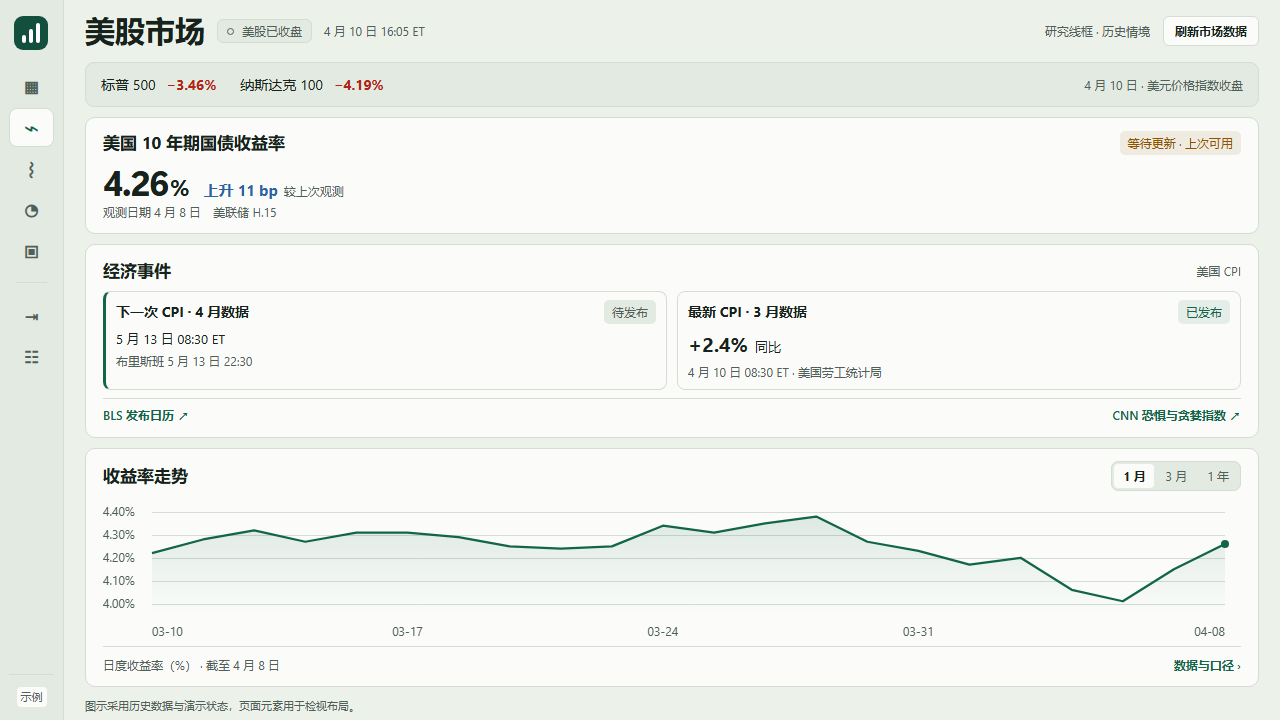
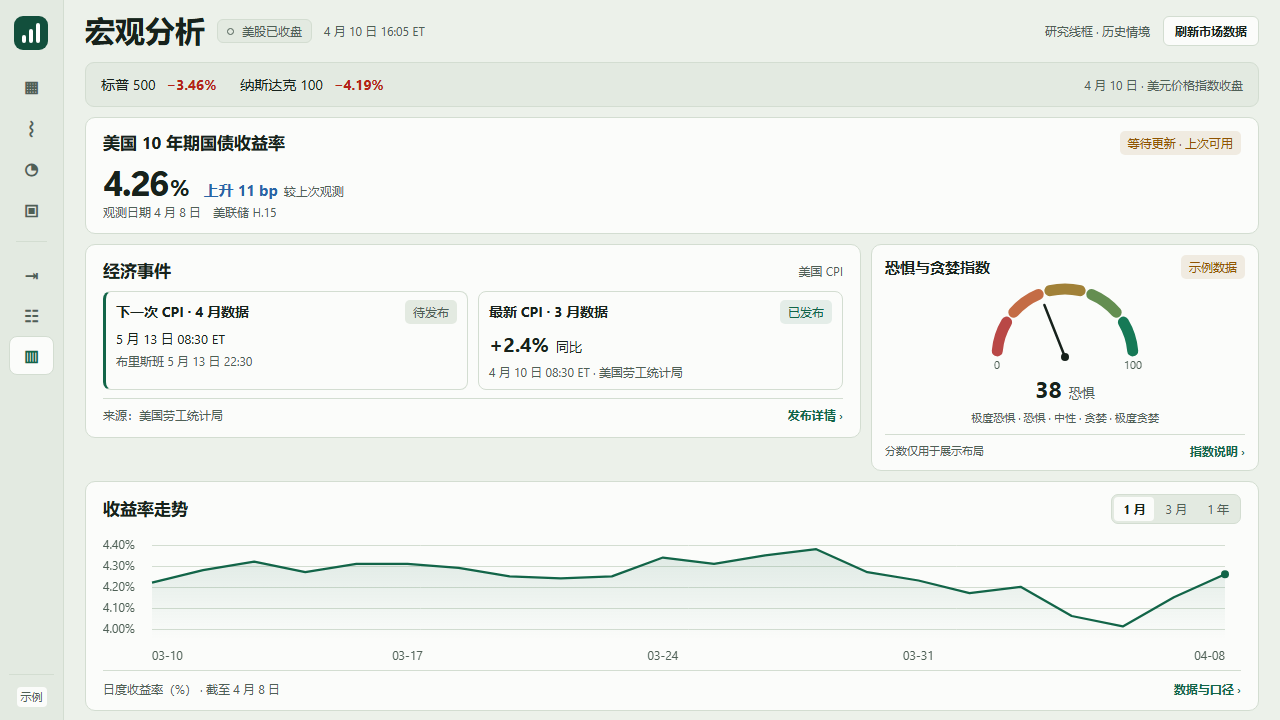
Revise Macro Analysis layout with in-app sentiment gauge

diff --git a/.research/directions/D04-us-market-indicators/research/market-page-layout-research.md b/.research/directions/D04-us-market-indicators/research/market-page-layout-research.md
@@ -1,4 +1,4 @@
-# Layout research for a dedicated U.S. Market page
+# Layout research for Macro Analysis
 
 Date: 2026-11-26
 
@@ -6,13 +6,13 @@ Direction: [D04 U.S. Market Indicators](../README.md) · Work: [Layout research 
 
 ## Recommendation
 
-Add **U.S. Market** (`美股市场` / `美股市場`) immediately after **Overview** in the existing sidebar. Open on a compact market snapshot. Give the latest available **10-year U.S. Treasury yield** the primary number, put **CPI releases** alongside it on ultrawide screens, and include the recent yield trend. A narrow window shows the yield and CPI readings before the chart. A compact row of S&P 500 and Nasdaq-100 closes can orient the reader when an appropriate market-data route has been verified.
+Add **Macro Analysis** (`宏观分析` / `宏觀分析`) as the last page in the sidebar, after **Settings**. Open on a compact market snapshot. Give the latest available **10-year U.S. Treasury yield** the primary number, put **CPI releases** alongside it on ultrawide screens, and include the recent yield trend. Place a familiar 0–100 Fear & Greed gauge in the sentiment card. A narrow window shows the yield, CPI and sentiment card before the trend. A compact row of S&P 500 and Nasdaq-100 closes can orient the reader when an appropriate market-data route has been verified.
 
-The page answers three questions in order. Is the U.S. equity session open or closed? Which observations are available and what changed? When is the next CPI release? This builds on the Researcher's accepted indicator ranking and preference for a separate page. [Candidate screening](indicator-screening.md) · [Current navigation](../../../../desktop/ui/Shell.jsx)
+The page answers three questions in order. Is the U.S. equity session open or closed? Which observations are available and what changed? When is the next CPI release? The Researcher confirmed the page name and final sidebar position, requested the gauge, and specified that details stay in the app. This builds on the accepted indicator ranking. [Candidate screening](indicator-screening.md) · [Current navigation](../../../../desktop/ui/Shell.jsx)
 
 ## Why a separate page fits Stock Portfolio
 
-The sidebar currently lists Overview, Performance Review, Allocation, and Holdings, followed by Imports and Settings. Overview starts with account valuation and helps the reader distinguish contributions from investment gains. Performance Review carries an account scope and a valuation date, and compares portfolio performance with AUD total-return benchmarks. A market page starts from the U.S. session and public series, with its own dates, units, and refresh state. Putting it next to Overview makes the two questions easy to find. The other portfolio navigation entries retain their relative order. [Existing shell](../../../../desktop/ui/Shell.jsx) · [Current app navigation and analysis controls](../../../../desktop/ui/App.jsx) · [Benchmark methodology](../../../../docs/adr/0002-portfolio-benchmark-returns.md)
+The sidebar currently lists Overview, Performance Review, Allocation, and Holdings, followed by Imports and Settings. Overview starts with account valuation and helps the reader distinguish contributions from investment gains. Performance Review carries an account scope and a valuation date, and compares portfolio performance with AUD total-return benchmarks. A market page starts from the U.S. session and public series, with its own dates, units, and refresh state. Its last-sidebar position keeps the established portfolio navigation above it. Every market action opens details in the app, with publisher names shown as attribution. [Existing shell](../../../../desktop/ui/Shell.jsx) · [Current app navigation and analysis controls](../../../../desktop/ui/App.jsx) · [Benchmark methodology](../../../../docs/adr/0002-portfolio-benchmark-returns.md)
 
 An Overview card would reduce navigation by one click, while competing with the amount and data coverage the user uses for a daily account check. A section in Performance Review would put market context beside a historical portfolio comparison, while inheriting a date and account context that cannot determine the current CPI or Treasury reading. A dedicated page can use the existing app shell, localized page title, sidebar and detail pattern, then keep its header tied to the U.S. market and its chart range local. [Overview product decisions](../../D02-portfolio-overview-priorities/research/product-decisions.md) · [Existing app layout](../../../../desktop/ui/layout.js)
 
@@ -33,21 +33,21 @@ The external precedents inform the comparison. TradingView's U.S. page opens wit
 | **Header** | Page title, U.S. equity session state such as **Market closed**, a clock with ET identified, and a market-only refresh action. Keep the session state separate from whether a source has refreshed. The header uses the market clock where the portfolio pages show account and valuation-date controls. |
 | **Equity context** | Optional compact row for S&P 500 and Nasdaq-100. A price-index close shows its own date and percent move from the previous valid close. Group the date only when both observations share it. Before an eligible market-data route exists, give the headline space to the session and rates. If the app exposes an existing total-return series in another view, keep its return basis explicit. |
 | **10-year Treasury** | Show the latest available yield in percent, the signed change in bp from the preceding valid Treasury observation, the observation date, source, and freshness. Give rates a neutral emphasis since a higher yield can have different implications for different users. If the comparison observation is missing, show the level and date while labelling the change unavailable. |
-| **CPI events** | Show the next scheduled release and the latest published result. Each item identifies the reference month and the release date. Use ET for the event and the local equivalent where helpful, especially if the date rolls over. The latest result begins with headline CPI year-over-year. The official release provides detail. |
+| **CPI events** | Show the next scheduled release and the latest published result. Each item identifies the reference month and the release date. Use ET for the event and the local equivalent where helpful, especially if the date rolls over. The latest result begins with headline CPI year-over-year. An in-app release detail shows the published value, the measurement period, the release time and the publisher. |
 | **Yield trend and details** | Default to one month, with three months and one year when data support them. Use one percent axis, mark the date of the last observation, and leave a gap where a scheduled observation is missing. Offer keyboard-accessible dated values and a data/source detail view. A shorter-history chart only exposes supported ranges. |
-| **External references** | Offer the CNN Fear & Greed publisher link in the references area. If VIX is approved for display, test one compact standalone volatility card below or beside rates. It carries its own observation clock and units. |
+| **Market sentiment** | Show a five-band semicircular 0–100 gauge with the score and sentiment as text. Open methodology and data availability in the app. The score 38 in the wireframes is illustrative. Bind current values only after a supported source, observation timestamps, and display and cache rights are verified. Until then the production design uses a neutral **Data unavailable** state with no score or needle. |
 
-**21:9.** Use the current shell's two-column pattern with a chart-led column of roughly two thirds and a narrower CPI column. Keep a reasonable width for the chart and event text. **16:9 and constrained width.** Read rates, CPI, and then trend in one column. The next and last CPI events may sit beside one another when their text fits. A smaller window can stack the events inside their card. Size the view in renderer CSS pixels so display scaling and the docked detail inspector can trigger the compact arrangement. The existing compact icon rail and fixed header provide the precedent. [Shell grid and detail component](../../../../desktop/ui/Shell.jsx) · [Shell size rules](../../../../desktop/ui/layout.js) · [Project layout targets](../../../../docs/investment-dashboard-design.md)
+**21:9.** Use the current shell's two-column pattern with a chart-led column of roughly two thirds and a narrower column for CPI above sentiment. Keep a reasonable width for the chart and event text. **16:9 and constrained width.** Read rates, CPI and sentiment, then trend. CPI and sentiment can share a row when the content area fits them. The next and last CPI events may also sit beside one another inside their card. A smaller window can stack the events inside their card. Size the view in renderer CSS pixels so display scaling and the docked detail inspector can trigger the compact arrangement. The existing compact icon rail and fixed header provide the precedent. [Shell grid and detail component](../../../../desktop/ui/Shell.jsx) · [Shell size rules](../../../../desktop/ui/layout.js) · [Project layout targets](../../../../docs/investment-dashboard-design.md)
 
 ### 21:9 wireframe, dark theme
 
-![U.S. Market wide wireframe with a dated Treasury value and chart on the left and upcoming and published CPI events on the right.](evidence/market-page-21x9.png)
+![Wide Macro Analysis wireframe with the last sidebar item selected, a Treasury yield and chart on the left, and CPI plus a sample sentiment gauge on the right.](evidence/market-page-21x9.png)
 
 ### 16:9 wireframe, light theme
 
-![U.S. Market compact wireframe with the latest available Treasury observation and CPI events before the yield trend.](evidence/market-page-16x9.png)
+![Compact Macro Analysis wireframe with the Treasury observation, CPI and sample sentiment gauge before the yield trend.](evidence/market-page-16x9.png)
 
-Both sketches use the same historical April 10, 2025 scenario. The equity moves use the historical close, and the wireframe assumes those closes were received. The Treasury panel shows an earlier observation still available in the chosen H.15 scenario. The BLS release at 08:30 ET was for March. The April report was scheduled for May 13. Numeric chart values through April 8 come from DGS10. The rendered controls illustrate placement and carry no production interaction. [Historical session and clock audit](historical-session-comparison.md) · [BLS April 10 release and next date](https://www.bls.gov/news.release/archives/cpi_04102025.htm) · [DGS10](https://fred.stlouisfed.org/series/DGS10)
+Both sketches use the same historical April 10, 2025 scenario. The equity moves use the historical close, and the wireframe assumes those closes were received. The Treasury panel shows an earlier observation still available in the chosen H.15 scenario. The BLS release at 08:30 ET was for March. The April report was scheduled for May 13. Numeric chart values through April 8 come from DGS10. The sentiment score and bands illustrate the gauge independently of the historical session. Detail controls represent in-app panels in these static sketches. [Historical session and clock audit](historical-session-comparison.md) · [BLS April 10 release and next date](https://www.bls.gov/news.release/archives/cpi_04102025.htm) · [DGS10](https://fred.stlouisfed.org/series/DGS10)
 
 ## State and accessibility
 
@@ -63,6 +63,6 @@ Match the app's green accent, light and dark surfaces, sidebar selection, typogr
 
 ## What to validate before implementation
 
-Use the same scenario and content when comparing Layout A with the list-first layout. Ask participants to locate the page from Overview, identify the date of the latest rate, tell whether it rose or fell, and identify both the reference month and the time of the next CPI release. Add a case in which the market is closed for a holiday and a refresh fails with a cached rate. Check correct first answers, time to answer, first click and serious source-date errors. Repeat in 16:9 and 21:9, with keyboard-only use and the existing zoom ranges. The two static layouts were inspected at 1280×720 in light mode and 1680×720 in dark mode. Actual Electron interaction and user comprehension remain for validation.
+Use the same scenario and content when comparing Layout A with the list-first layout. Ask participants to locate the last sidebar page from Overview, identify the date and change of the latest rate, identify the next CPI reference month and release time, and open both the CPI details and sentiment explanation without leaving the app. Add a case in which the market is closed for a holiday and a refresh fails with a cached rate. Check correct first answers, time to answer, first click and serious source-date errors. Repeat in 16:9 and 21:9, with keyboard-only use and the existing zoom ranges. The two static layouts were inspected at 1280×720 in light mode and 1680×720 in dark mode. Actual Electron interaction and user comprehension remain for validation.
 
-The daily-rate source still needs qualification over several release windows. A candidate equity strip depends on verified data access and display rights. The recommendation can be reviewed with only the yield and CPI content.
+The daily-rate source still needs qualification over several release windows. A candidate equity strip depends on verified data access and display rights. The wireframes show the full in-app layout. Continuous availability and authorization for the CNN score remain open. [Indicator source and permissions audit](source-and-permissions-audit.md)

diff --git a/.research/directions/D04-us-market-indicators/research/indicator-screening.md b/.research/directions/D04-us-market-indicators/research/indicator-screening.md
@@ -10,7 +10,7 @@ Work: [Candidate comparison #58](https://github.com/JasonCodeMaker/Stack-Portfol
 
 The smallest first-release set is **one daily rates card and one release-day event**. Prioritize the U.S. 10-year Treasury constant-maturity yield for the card. Use the Bureau of Labor Statistics CPI release as the event. The 10-year yield gave the clearest distinct daily context among the candidates with aligned data. CPI supplies dated macro news from an official source, with an update schedule suitable for an event.
 
-VIX is the preferred third indicator if a provider offers verified permission for the app's intended display and cache. Keep CNN Fear & Greed as a link to the publisher until a supported feed, usable timestamps and product rights are established. Hold the ICE high-yield spread for a later credit view with an appropriate license. [Treasury methodology](https://home.treasury.gov/policy-issues/financing-the-government/interest-rate-statistics/treasury-yield-curve-methodology) · [BLS CPI schedule](https://www.bls.gov/schedule/news_release/cpi.htm) · [Cboe data licensing](https://www.cboe.com/data/global-indices-feed)
+VIX is the preferred third indicator if a provider offers verified permission for the app's intended display and cache. Prepare the in-app CNN Fear & Greed gauge for a supported feed with usable timestamps and product rights. The Macro Analysis design uses an unavailable state while those conditions are unresolved. [Updated in-app design](market-page-layout-research.md) Hold the ICE high-yield spread for a later credit view with an appropriate license. [Treasury methodology](https://home.treasury.gov/policy-issues/financing-the-government/interest-rate-statistics/treasury-yield-curve-methodology) · [BLS CPI schedule](https://www.bls.gov/schedule/news_release/cpi.htm) · [Cboe data licensing](https://www.cboe.com/data/global-indices-feed)
 
 ## Why add anything to the benchmark view?
 
@@ -39,7 +39,7 @@ This check used the published historical series available at research time. It d
 | **1** | **10-year U.S. Treasury yield** | Current published yield, change from the previous Treasury observation in bp, and U.S. observation date. It describes long-term rates on both rising and falling equity days. | **First daily card.** Treasury documents a direct XML feed, indicative inputs around 15:30 ET, and usual website availability by 18:00 ET. Confirm the polling path in the desktop environment and retain a last-available state. FRED DGS10 labels the series public domain with attribution requested. Check the chosen delivery channel's terms separately. [Treasury XML documentation](https://home.treasury.gov/treasury-daily-interest-rate-xml-feed) · [FRED DGS10](https://fred.stlouisfed.org/series/DGS10) |
 | **2** | **U.S. CPI release** | Reference month, official release date and time, headline year-over-year change, and optionally the as-published seasonally adjusted month-over-month change. | **First release-day event.** BLS has an official API and publishes its statistical material in the public domain. Use the first-release archive to reconstruct what was shown on a particular date. Mark the scheduled event as upcoming until the actual figures arrive. [BLS API](https://www.bls.gov/developers/) · [BLS copyright policy](https://www.bls.gov/opub/copyright-information.htm) · [Release archive](https://www.bls.gov/bls/news-release/cpi.htm) |
 | **3** | **Cboe VIX** | Published level and point change as a measure of 30-day S&P 500 option-implied volatility. | **Preferred licensed addition.** Cboe publishes history and offers licensed index feeds. Current product display, caching, and delayed or end-of-day entitlements need verification. Keep the observation time distinct from 16:00 ET cash close. [Cboe FAQ](https://www.cboe.com/tradable_products/vix/faqs) · [Cboe website terms](https://www.cboe.com/terms/) |
-| **4** | **CNN Fear & Greed** | A composite view of market sentiment. CNN combines seven components, including market volatility and credit-related inputs. | **Publisher link for the first release.** No documented supported data feed, point-in-time history, or in-app reproduction permission was verified. Revisit if a supported source meets all three. If it becomes available, compare the composite alone with the composite plus VIX or spread before giving each space. [CNN methodology](https://www-stage-fastly.stellar.cnn.com/markets/fear-and-greed) |
+| **4** | **CNN Fear & Greed** | A composite view of market sentiment. CNN combines seven components, including market volatility and credit-related inputs. | **In-app gauge conditional on eligible data.** A supported feed, point-in-time history and display rights remain to be verified. Revisit if a supported source meets all three. If it becomes available, compare the composite alone with the composite plus VIX or spread before giving each space. [CNN methodology](https://www-stage-fastly.stellar.cnn.com/markets/fear-and-greed) |
 | **5** | **ICE BofA U.S. high-yield OAS** | Risk compensation in lower-rated corporate credit, with a separate observation date and bp change. | **Defer.** It can diverge from VIX. FRED's series notes describe the three-year history limit and require prior consent for external publication. Its close and distribution timing add another independent clock. [FRED and ICE series terms](https://fred.stlouisfed.org/series/BAMLH0A0HYM2) |
 | **Reserve** | **Equity participation, weekly conditions, or broader stress** | Equal-weight vs cap-weight can show a change in market leadership. NFCI or OFR FSI can add slower context. | Equal-weight relative performance also reflects size and sector exposure. A true advance/decline measure would need both a known universe and rights to its current and historical constituents and prices. NFCI is weekly and revisable. OFR's broader index is published with inputs two business days old. The published OFR aggregate has a confirmed CSV route and is the strongest candidate for a separate delayed stress view. The CFTC E-mini positioning report adds a narrower view of futures positions with its own release lag. AAII is a weekly survey of individual investors with a six-month outlook and full history offered to members. This timing and population make it better suited to a separate weekly read. Keep these outside the minimal set. [AAII survey](https://www.aaii.com/sentimentsurvey) · [S&P DJI equal-weight FAQ](https://www.spglobal.com/spdji/en/education/article/sp-500-equal-weight-index-faq/) · [Chicago Fed NFCI](https://www.chicagofed.org/research/data/nfci/current-data) · [OFR FSI](https://www.financialresearch.gov/financial-stress-index/) · [CFTC positioning](https://publicreporting.cftc.gov/Commitments-of-Traders/TFF-Futures-Only/gpe5-46if) |
 

diff --git a/.research/directions/D04-us-market-indicators/README.md b/.research/directions/D04-us-market-indicators/README.md
@@ -47,4 +47,4 @@ Historical sessions supply examples for evaluating the current-market view. Hist
 - [Direction tracking issue](https://github.com/JasonCodeMaker/Stack-Portfolio/issues/56) holds the preparation goal and relationships.
 - [Preparation decision](https://github.com/JasonCodeMaker/Stack-Portfolio/issues/57) records the use-case choice and its implications for the Proposal.
 - [Indicator screening and first-release recommendation](research/indicator-screening.md) compares the candidates, ranks the shortlist, and links the source audit and session evidence.
-- [U.S. Market page layout and wireframes](research/market-page-layout-research.md) compares three layouts and recommends how the first-release indicators fit the desktop shell.
+- [Macro Analysis layout and wireframes](research/market-page-layout-research.md) compares three layouts and recommends how the first-release indicators fit the desktop shell.
